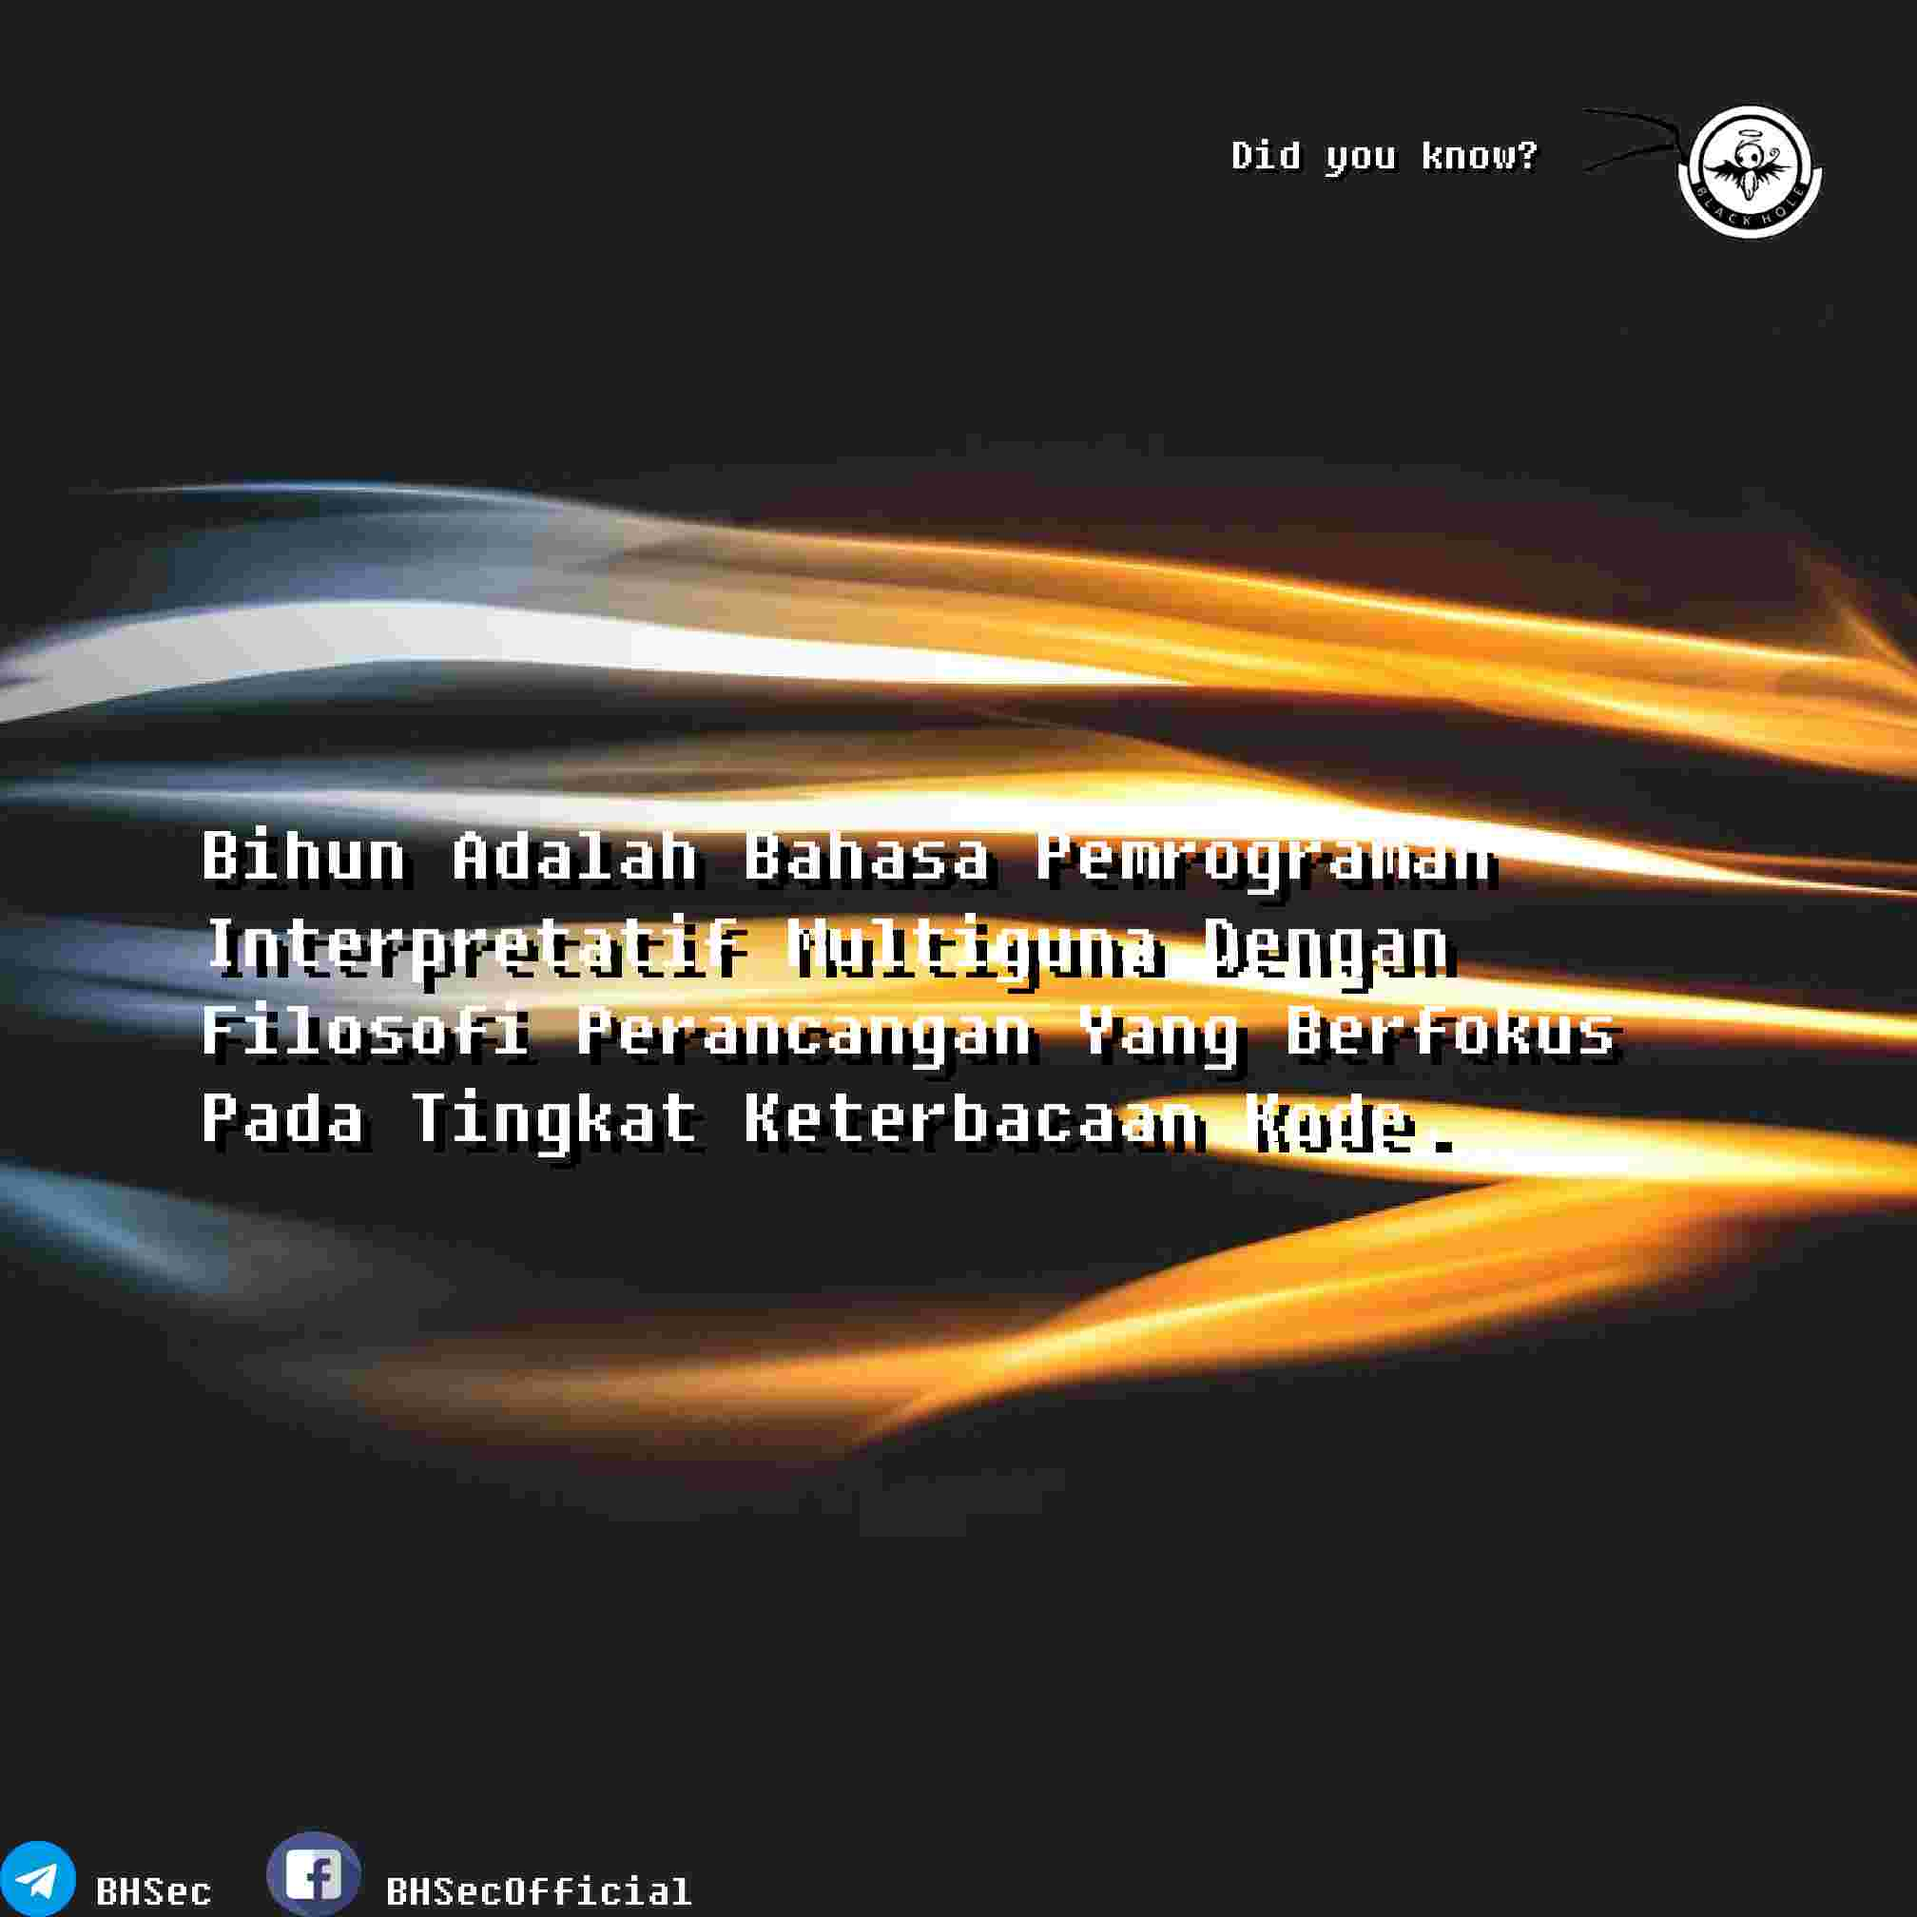
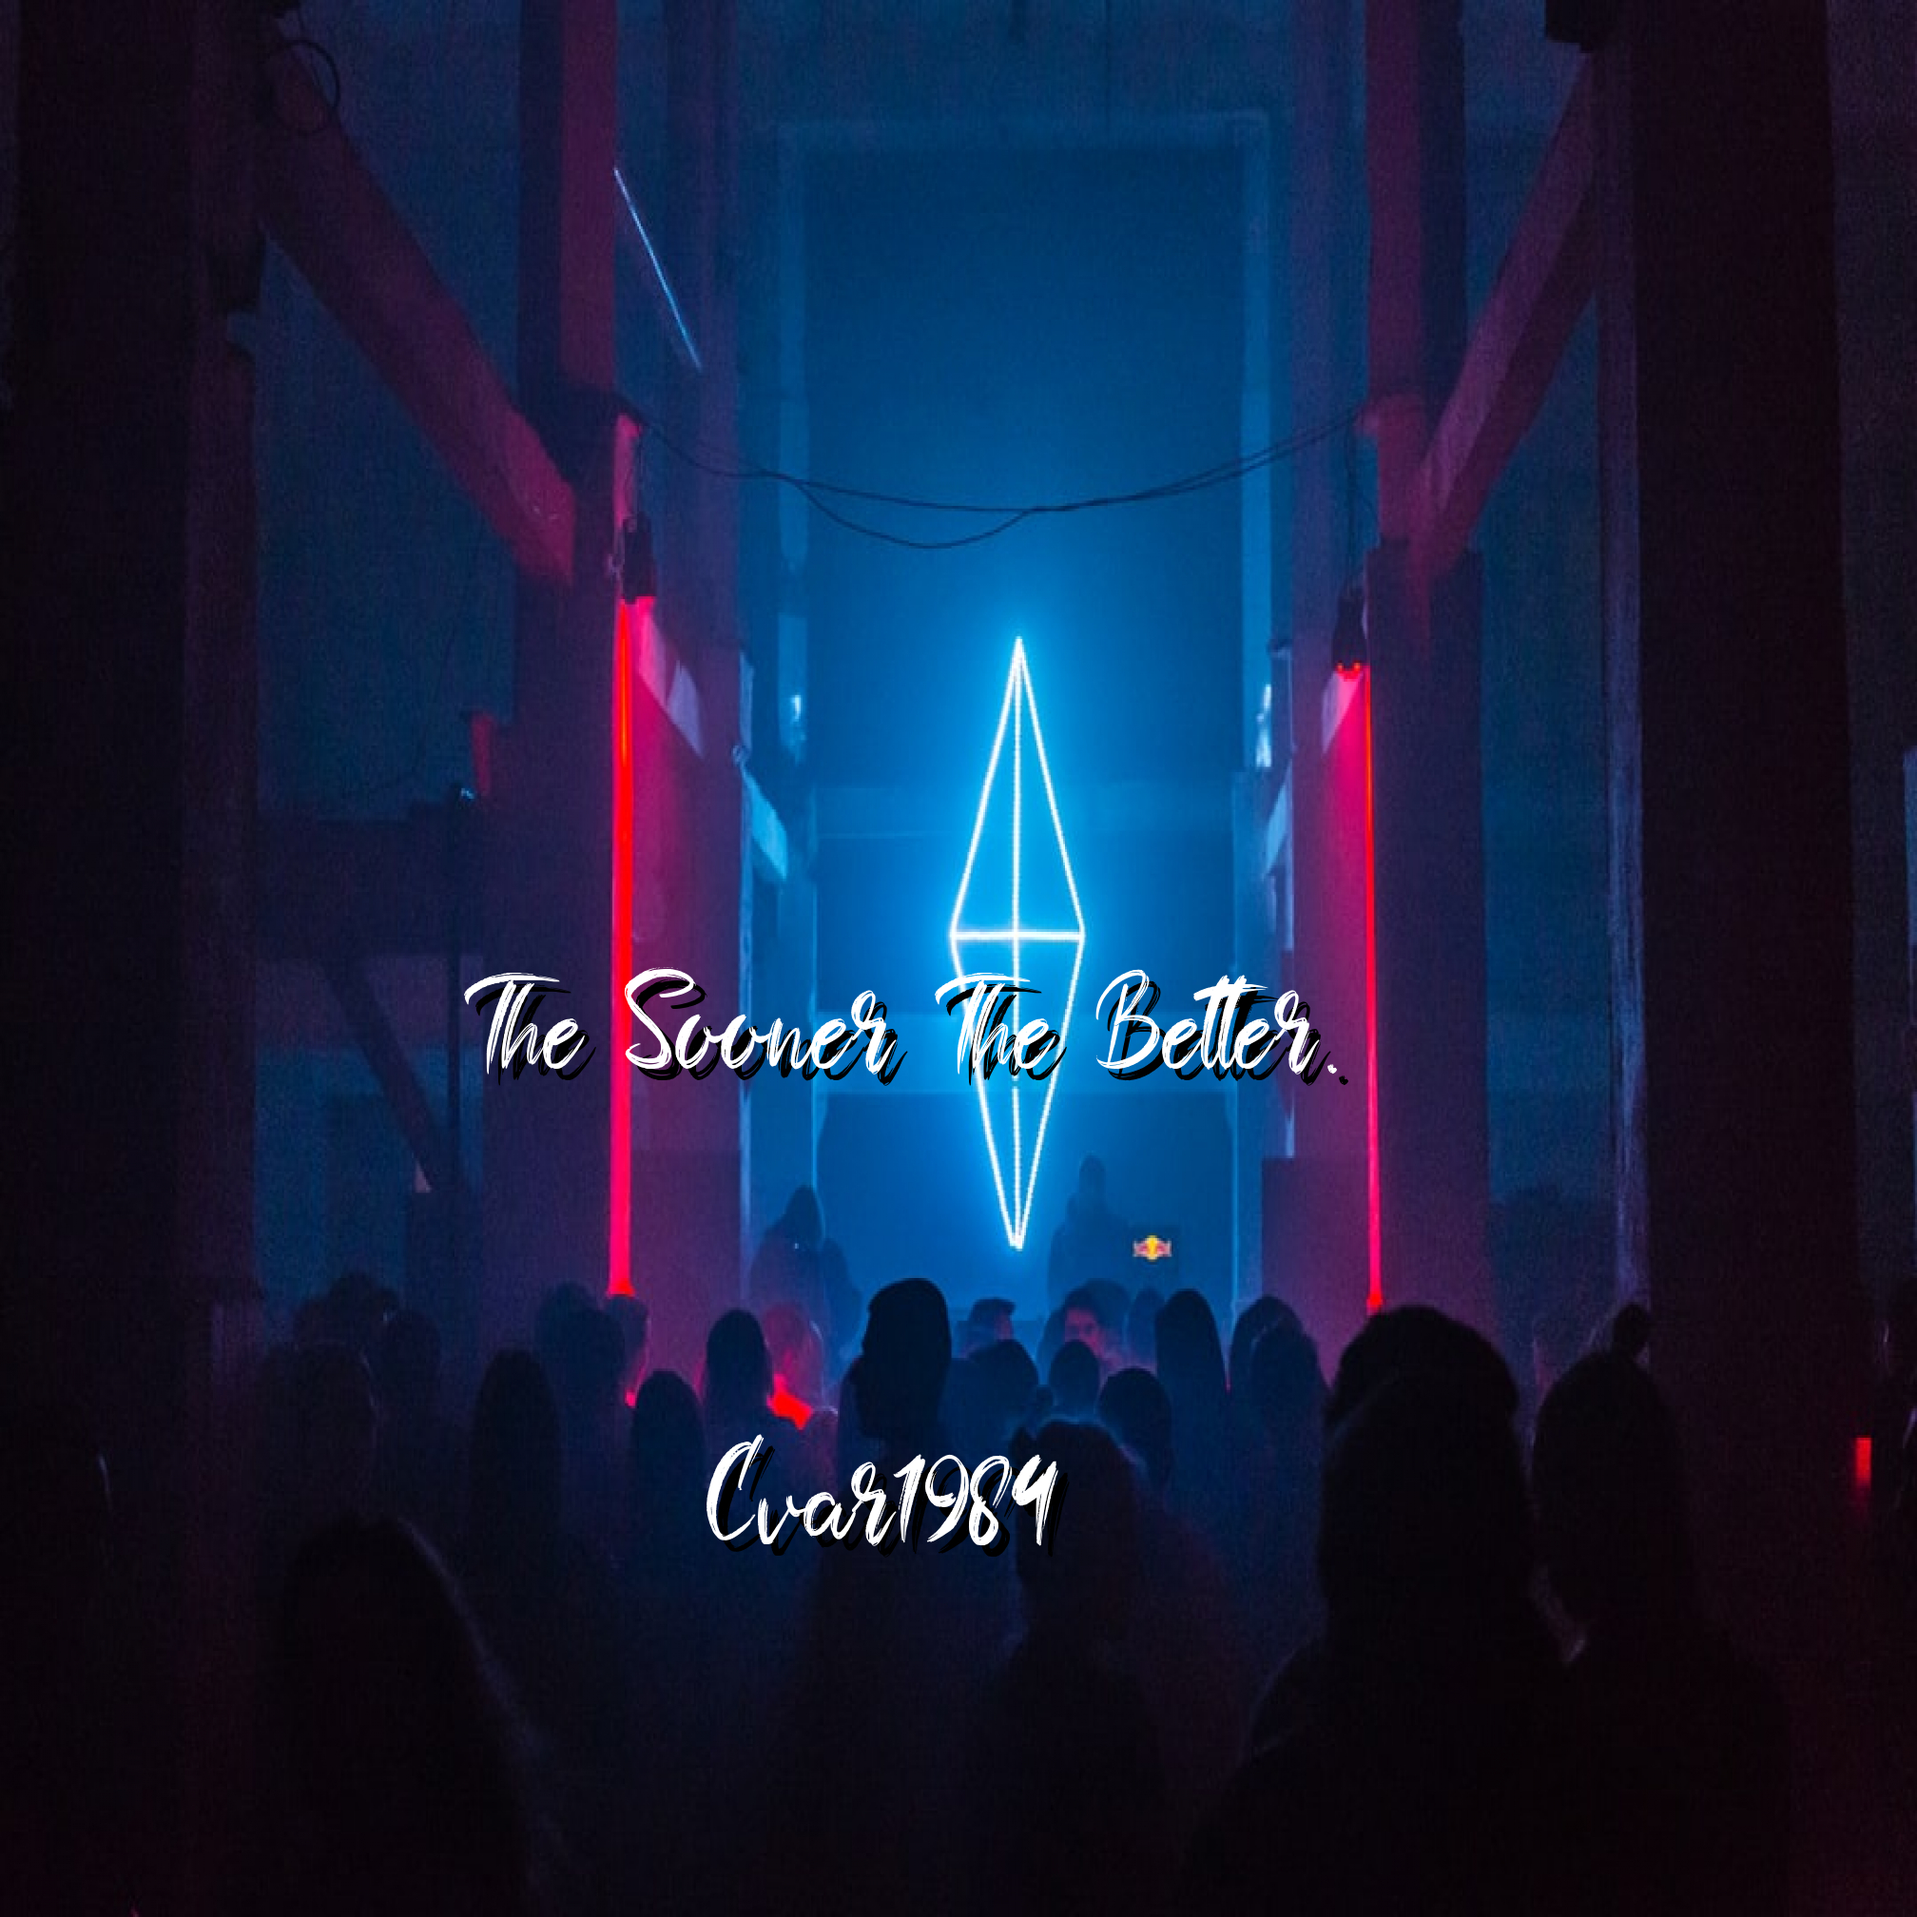
quote templates

diff --git a/src/Templates/QuoteTemplates.php b/src/Templates/QuoteTemplates.php
@@ -1,11 +1,12 @@
 <?php
 namespace Bhsec\SimpleImage\Templates;
 
-class BhsecTemplates extends Templates
+class QuoteTemplates extends Templates
 {
    public static function make(array $opt)
     {
         $text = $opt['text'];
+        $waterMark = $opt['watermark'];
         $font = $opt['font'];
         $query = $opt['query'];
         $outputName = $opt['result']['output'];
@@ -13,10 +14,10 @@ class BhsecTemplates extends Templates
         $quality = $opt['result']['quality'];
 
         try {
-            $option1 = [
+             $option1 = [
                 // main text
                 'color' => 'white',
-                'size' => 88,
+                'size' => 130,
                 'anchor' => 'center',
                 'fontFile' =>
                     parent::SOURCE . DIRECTORY_SEPARATOR . $font,
@@ -31,70 +32,31 @@ class BhsecTemplates extends Templates
             ];
 
             $option2 = [
-                // bottom text 1
+                // watermark text
                 'color' => 'white',
-                'size' => 50,
-                'anchor' => 'bottom left',
+                'size' => 130,
+                'anchor' => 'center',
                 'fontFile' =>
                     parent::SOURCE . DIRECTORY_SEPARATOR . $font,
-                'xOffset' => 100,
-            ];
-
-            $option3 = [
-                // bottom text 2
-                'color' => 'white',
-                'size' => 50,
-                'anchor' => 'bottom left',
-                'xOffset' => 405,
-                'fontFile' =>
-                    parent::SOURCE . DIRECTORY_SEPARATOR . $font,
-            ];
-
-            $option4 = [
-                // top text 1
+                'xOffset' => -80,
+                'yOffset' => 600,
                 'shadow' => [
                     // shadow option
-                    'x' => 5,
-                    'y' => 5,
+                    'x' => 12,
+                    'y' => 12,
                     'color' => 'black',
                 ],
-                'color' => 'white',
-                'size' => 50,
-                'anchor' => 'top right',
-                'xOffset' => -400,
-                'yOffset' => 140,
-                'fontFile' =>
-                    parent::SOURCE . DIRECTORY_SEPARATOR . $font,
             ];
-
-            $tele = new \claviska\SimpleImage();
-            $fb = new \claviska\SimpleImage();
-            $bhs = new \claviska\SimpleImage();
             $image = new \claviska\SimpleImage();
             $unsplash = new \Bhsec\SimpleImage\Unsplash($query);
-
-            $tele
-                ->fromFile(parent::SOURCE . '/telegram.png')
-                ->resize(80, 80);
-            $fb
-                ->fromFile(parent::SOURCE . '/facebook.png')
-                ->resize(100, 90);
-            $bhs
-                ->fromFile(parent::SOURCE . '/bhs.png')
-                ->resize(350, 350);
-
+ 
             $image
                 ->fromString(file_get_contents($unsplash->regular))
                 ->resolution(320, 200)
                 ->resize(2016, 2016)
                 ->autoOrient()
                 ->text(parent::filterParagraf($text, 35), $option1)
-                ->overlay($tele, 'bottom left')
-                ->text('BHSec', $option2)
-                ->overlay($bhs, 'top right')
-                ->text('Did you know?', $option4)
-                ->overlay($fb, 'bottom left', 1, 280)
-                ->text('BHSecOfficial', $option3)
+                ->text(parent::filterParagraf($waterMark, 35), $option2)
                 ->toFile($outputName, $mime, $quality);
 
             $return = [

diff --git a/example.php b/example.php
@@ -2,18 +2,20 @@
 
 require __DIR__ . '/vendor/autoload.php';
 
-$paragraf = 'bihun adalah bahasa pemrograman interpretatif multiguna dengan filosofi perancangan yang berfokus pada tingkat keterbacaan kode.';
-$query = 'Dark';
-$option = [
+$paragraf = \Wheeler\Fortune\Fortune::make();
+$query = 'Cyberpunk';
+$waterMark = 'Cvar1984';
+$optionQuote = [
     'text' => $paragraf,
+    'watermark' => $waterMark,
     'query' => $query,
-    'font' => 'FSEX300.ttf',
+    'font' => 'Shadow Brush.ttf',
     'result' => [
-        'output' => 'result.jpg',
+        'output' => 'quote.jpg',
         'mime' => 'image/jpeg',
         'quality' => 100
     ]
 ];
 
-$status = Bhsec\SimpleImage\Templates\BhsecTemplates::make($option);
+$status = Bhsec\SimpleImage\Templates\QuoteTemplates::make($optionQuote);
 echo $status;

diff --git a/src/Templates/Templates.php b/src/Templates/Templates.php
@@ -1,0 +1,16 @@
+<?php
+namespace Bhsec\SimpleImage\Templates;
+
+abstract class Templates
+{
+    public const SOURCE = __DIR__ . '/../../assets';
+    public static function filterParagraf(string $paragraf, string $wrap)
+    {
+        $paragraf = trim($paragraf);
+        $paragraf = mb_substr($paragraf, 0, 301, 'UTF-8');
+        $paragraf = str_replace('. ', ".\n", $paragraf);
+        $paragraf = wordwrap($paragraf, $wrap, "\n");
+        $paragraf = ucwords(strtolower($paragraf));
+        return $paragraf;
+    }
+}
